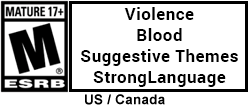
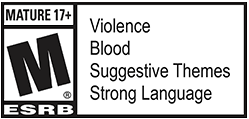
Fixed ESRB/PEGI images

diff --git a/index.html b/index.html
@@ -316,7 +316,7 @@ $(function(){
 <h1 style="text-align: center;">Press kit</h1>
 <p><a href="https://midboss.com/press/2064rom/" target="_blank" rel="noopener"><img class="aligncenter size-full wp-image-97" src="./imgs/2064press1.png" alt="2064press" width="551" height="176" /></a></p>
 <p>&nbsp;</p>
-<div align="center"><img class="alignnone size-full wp-image-168" style="margin: 0 3ex;" src="./imgs/pegi164.png" alt="pegi16" width="76" height="93" /><a href="http://www.esrb.org/ratings/Synopsis.aspx?Certificate=10031456&amp;Title=2064%3A+Read+Only+Memories"><img src="./imgs/esrbM2.png" alt="" width="249" height="105" class="alignnone size-full wp-image-184" /></a></div>
+<div align="center"><img class="alignnone size-full wp-image-168" style="margin: 0 3ex;" src="./imgs/pegi164.png" alt="pegi16" width="97" height="119" /><a href="http://www.esrb.org/ratings/Synopsis.aspx?Certificate=10031456&amp;Title=2064%3A+Read+Only+Memories"><img src="./imgs/esrbM2.png" alt="" width="249" height="119" class="alignnone size-full wp-image-184" /></a></div>
 		</div><!-- .entry-content -->
 
 			</div><!-- .inside-article -->
